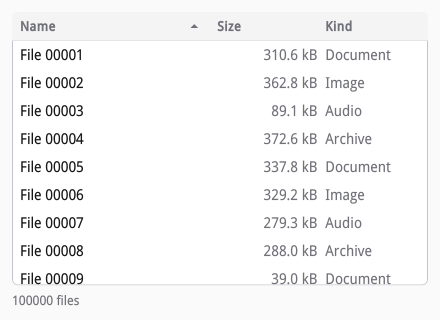
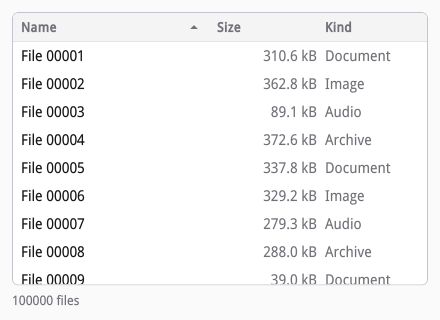
widgets: keep a view's header and rows inside its frame's border
A view's root draws the frame: background, a 1 px border, rounded
corners, and a clip to its border box. The table header and the scroll
were laid out from the root's outer edge, so the header's fill covered
the frame's left and right border and the arc of its top corners, and
selected rows covered the sides: next to siv-files' sidebar, whose list
has padding, the file table's top-left corner looked broken.

The root now pads its children by the border's width, and the header's
top corners and the scroll's open corners are rounded to the border's
inner curve, so the border runs unbroken in light and dark. The table
test checks the border's pixels beside the header, beside the rows, and
at the bottom; goldens of views, siv's own files app, and the guide's
table and tree images follow. A page is the viewport's height, 2 px
less than the view's.

DESIGN.md (D22) records it.

diff --git a/DESIGN.md b/DESIGN.md
@@ -3799,6 +3799,13 @@ reverse it. "Another toolkit does it this way" is evidence, never a reason.
       that size rows by text measure it with `siv_app_measure_text`.
       Reverse if applications need rows sized by content they cannot
       measure, such as embedded widgets.
+    - The frame (border, rounded corners, clip) is the view's root; its
+      header and scroll sit inside the border, the header's top corners
+      and the scroll's open corners rounded to the border's inner curve.
+      Clipping is to the border box, so a header filling the root's
+      width painted over the left and right border and the top corners'
+      arc, and selected rows over the sides (siv-files' table showed a
+      broken top-left corner next to its sidebar).
     - Selection is a bitset in node data, resized with the count (node
       data of another size replaces the old and keeps what fits); none,
       single, or multiple with Ctrl, Shift, and Ctrl+A. The cursor's row is
